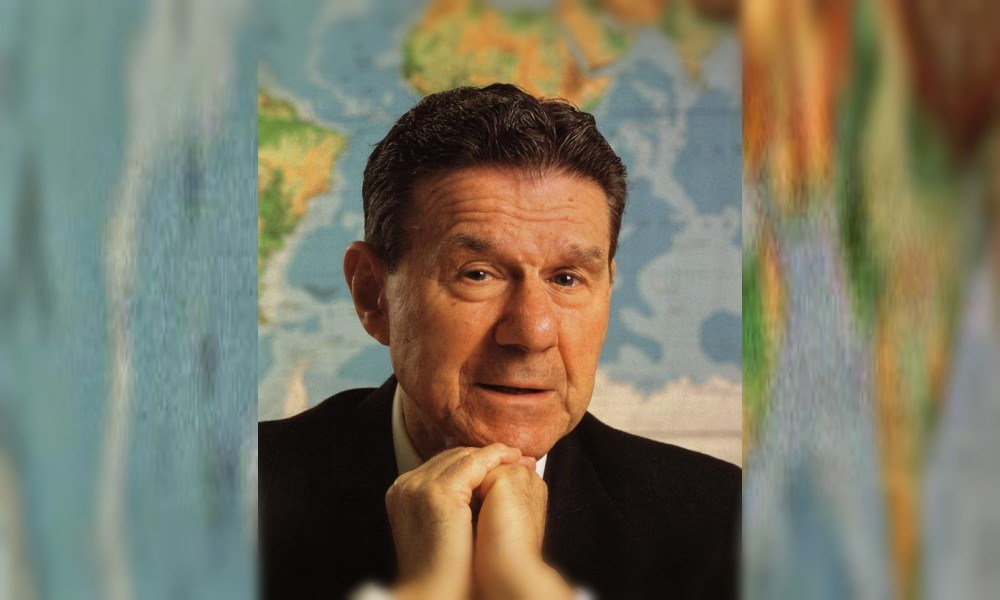
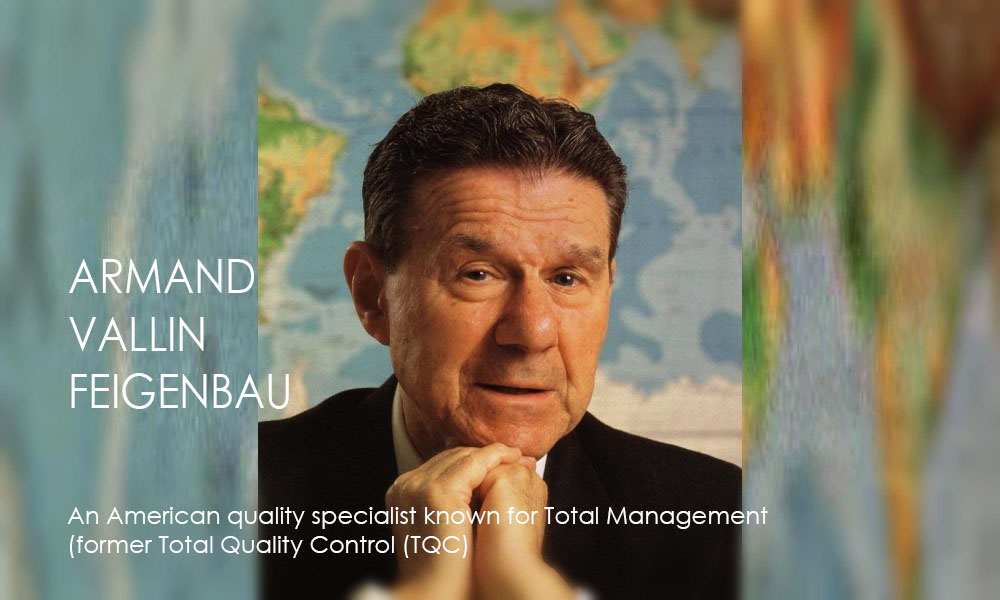
achievements section

Changed region(s): [[0.062, 0.84, 0.775, 0.93], [0.062, 0.51, 0.31, 0.69], [0.062, 0.42, 0.279, 0.51]]

diff --git a/pages/achievements.html b/pages/achievements.html
@@ -1,0 +1,108 @@
+<!DOCTYPE html>
+<html lang="en">
+<head>
+  <title>Bootstrap 5 Example</title>
+  <meta charset="utf-8">
+  <meta name="viewport" content="width=device-width, initial-scale=1">
+  <link href="https://cdn.jsdelivr.net/npm/bootstrap@5.1.3/dist/css/bootstrap.min.css" rel="stylesheet">
+  <script src="https://cdn.jsdelivr.net/npm/bootstrap@5.1.3/dist/js/bootstrap.bundle.min.js"></script>
+	<link href = "../style.css" rel="stylesheet">
+</head>
+<body>
+<div class="container-fluid p-4 text-center" style = "background-color: lightblue; color: lightslategray;">
+	<h1>ARMAND VALLIN FEIGENBAUM</h1>
+	<p>An American quality specialist known for Total Management (former Total Quality Control)</p> 
+</div>
+
+<div id=body class="mx-auto mt-5 mh-75 p-4 rounded border border-2 w-75 shadow-lg">
+	<div class = "row" style = "margin-left: -50px;">
+		<div class = "col-sm-2 border-end ">
+			<button type="button" class="main-nav btn shadow" onclick = "window.location.href = '../index.html' ">Feigenbaum</button>
+			<br/>
+			<button type="button" class="main-nav btn shadow-sm" onclick = "window.location.href = 'biography.html'">Biography</button>
+			<br/>
+			<button type="button" class="main-nav btn shadow-sm" onclick = "window.location.href = 'associations.html'">Associations</button>
+			<br/>
+			<button type="button" class="main-nav main-nav-active btn shadow-sm">Achievements</button>
+			<br/>
+			<button type="button" class="main-nav btn shadow-sm">Contributions</button>
+		</div>
+		<div id = "content" class = "col-sm-10">
+			<div class = "row">
+        <div class = "col-md-4">
+          <div class = "d-grid">
+            <button class = "btn btn-primary btn-block" data-bs-toggle="collapse" data-bs-target="#first">1951</button>
+          </div>
+
+          <div id="first" class="collapse">
+            <div class="mt-4 p-3 border border-3 rounded">
+              <h5>Authored Quality Control: Principles, Practice, and Administration contained Feigenbaum's ideas</h5>
+            </div>
+          </div>
+        </div>
+        <div class = "col-md-4">
+          <div class = "d-grid">
+            <button class = "btn btn-primary btn-block" data-bs-toggle="collapse" data-bs-target="#second">19xx</button>
+          </div>
+
+          <div id="second" class="collapse">
+            <div class="mt-4 p-3 border border-3 rounded">
+              <h5>ASQ's Lancaster Award recipient </h5>
+                <p>In recognition of exceptional leadership on the international scene in promoting quality</p>
+                
+            </div>
+          </div>
+        </div>
+        <div class = "col-md-4">
+          <div class = "d-grid">
+            <button class = "btn btn-primary btn-block" data-bs-toggle="collapse" data-bs-target="#third">1965</button>
+          </div>
+
+          <div id="third" class="collapse">
+            <div class="mt-4 p-3 border border-3 rounded">
+              <h5>ASQ Edwards Medal recipient</h5>
+                <p>In recognition of “his origination and implementation of basic foundations for modern quality control”</p>
+                
+            </div>
+          </div>
+        </div>
+      </div>
+      <br>
+      <div class = "row w-75 mx-auto">
+        <div class = "col-md-6">
+          <div class = "d-grid">
+            <button class = "btn btn-primary btn-block" data-bs-toggle="collapse" data-bs-target="#fourth">19XX</button>
+          </div>
+
+          <div id="fourth" class="collapse">
+            <div class="mt-4 p-3 border border-3 rounded">
+              <h5>Chairman of a system-wide evaluation of quality assurance activities of the Army Materiel Command</h5>
+                <p></p>
+                
+            </div>
+          </div>
+        </div>
+        <div class = "col-md-6">
+          <div class = "d-grid">
+            <button class = "btn btn-primary btn-block" data-bs-toggle="collapse" data-bs-target="#fifth">2008</button>
+          </div>
+
+          <div id="fifth" class="collapse">
+            <div class="mt-4 p-3 border border-3 rounded">
+              <h5>National Medal of Technology and Innovation recipient</h5>
+                <p>The highest honor for technological achievement bestowed on America’s leading innovators</p>
+                
+            </div>
+          </div>
+        </div>
+      </div>
+
+	  </div>
+	</div>
+	<div class = "mx-auto">
+		<img class = "player" src = "../assets/player button.png">
+	</div>
+</div>
+
+</body>
+</html>

diff --git a/pages/biography.html b/pages/biography.html
@@ -9,15 +9,21 @@
 	<link href = "../style.css" rel="stylesheet">
 </head>
 <body>
+
+<div class="container-fluid p-4 text-center" style = "background-color: lightblue; color: lightslategray;">
+	<h1>ARMAND VALLIN FEIGENBAUM</h1>
+	<p>An American quality specialist known for Total Management (former Total Quality Control)</p> 
+</div>
+
 <div id=body class="mx-auto mt-5 mh-75 p-4 rounded border border-2 w-75 shadow-lg">
 	<div class = "row" style = "margin-left: -50px;">
 		<div class = "col-sm-2 border-end ">
 			<button class="main-nav btn shadow-sm" onclick = "window.location.href = '../index.html' ">Feigenbaum</button>
 			<br/>
-			<button class="main-nav main-nav-active btn shadow"> Biography </button>
+			<button class="main-nav main-nav-active btn shadow" onclick = "window.location.href = 'biography.html'"> Biography </button>
 			<button class="main-nav btn shadow-sm" onclick = "window.location.href = 'associations.html' ">Association</button>
 			<br/>
-			<button class="main-nav btn shadow-sm">Achievements</button>
+			<button class="main-nav btn shadow-sm" onclick = "window.location.href = 'achievements.html'">Achievements</button>
 			<br/>
 			<button class="main-nav btn shadow-sm">Contributions</button>
 		</div>

diff --git a/index.html b/index.html
@@ -19,11 +19,11 @@
 		<div class = "col-sm-2 border-end ">
 			<button type="button" class="main-nav main-nav-active btn shadow">Feigenbaum</button>
 			<br/>
-			<button type="button" class="main-nav btn shadow-sm">Biography</button>
+			<button type="button" class="main-nav btn shadow-sm" onclick = "window.location.href = 'pages/biography.html'">Biography</button>
 			<br/>
 			<button type="button" class="main-nav btn shadow-sm" onclick = "window.location.href = 'pages/associations.html'">Associations</button>
 			<br/>
-			<button type="button" class="main-nav btn shadow-sm">Achievements</button>
+			<button type="button" class="main-nav btn shadow-sm" onclick = "window.location.href = 'pages/achievements.html'">Achievements</button>
 			<br/>
 			<button type="button" class="main-nav btn shadow-sm">Contributions</button>
 		</div>

diff --git a/pages/associations.html b/pages/associations.html
@@ -23,7 +23,7 @@
 			<br/>
 			<button type="button" class="main-nav main-nav-active btn shadow-sm">Associations</button>
 			<br/>
-			<button type="button" class="main-nav btn shadow-sm">Achievements</button>
+			<button type="button" class="main-nav btn shadow-sm" onclick = "window.location.href = 'achievements.html'">Achievements</button>
 			<br/>
 			<button type="button" class="main-nav btn shadow-sm">Contributions</button>
 		</div>
